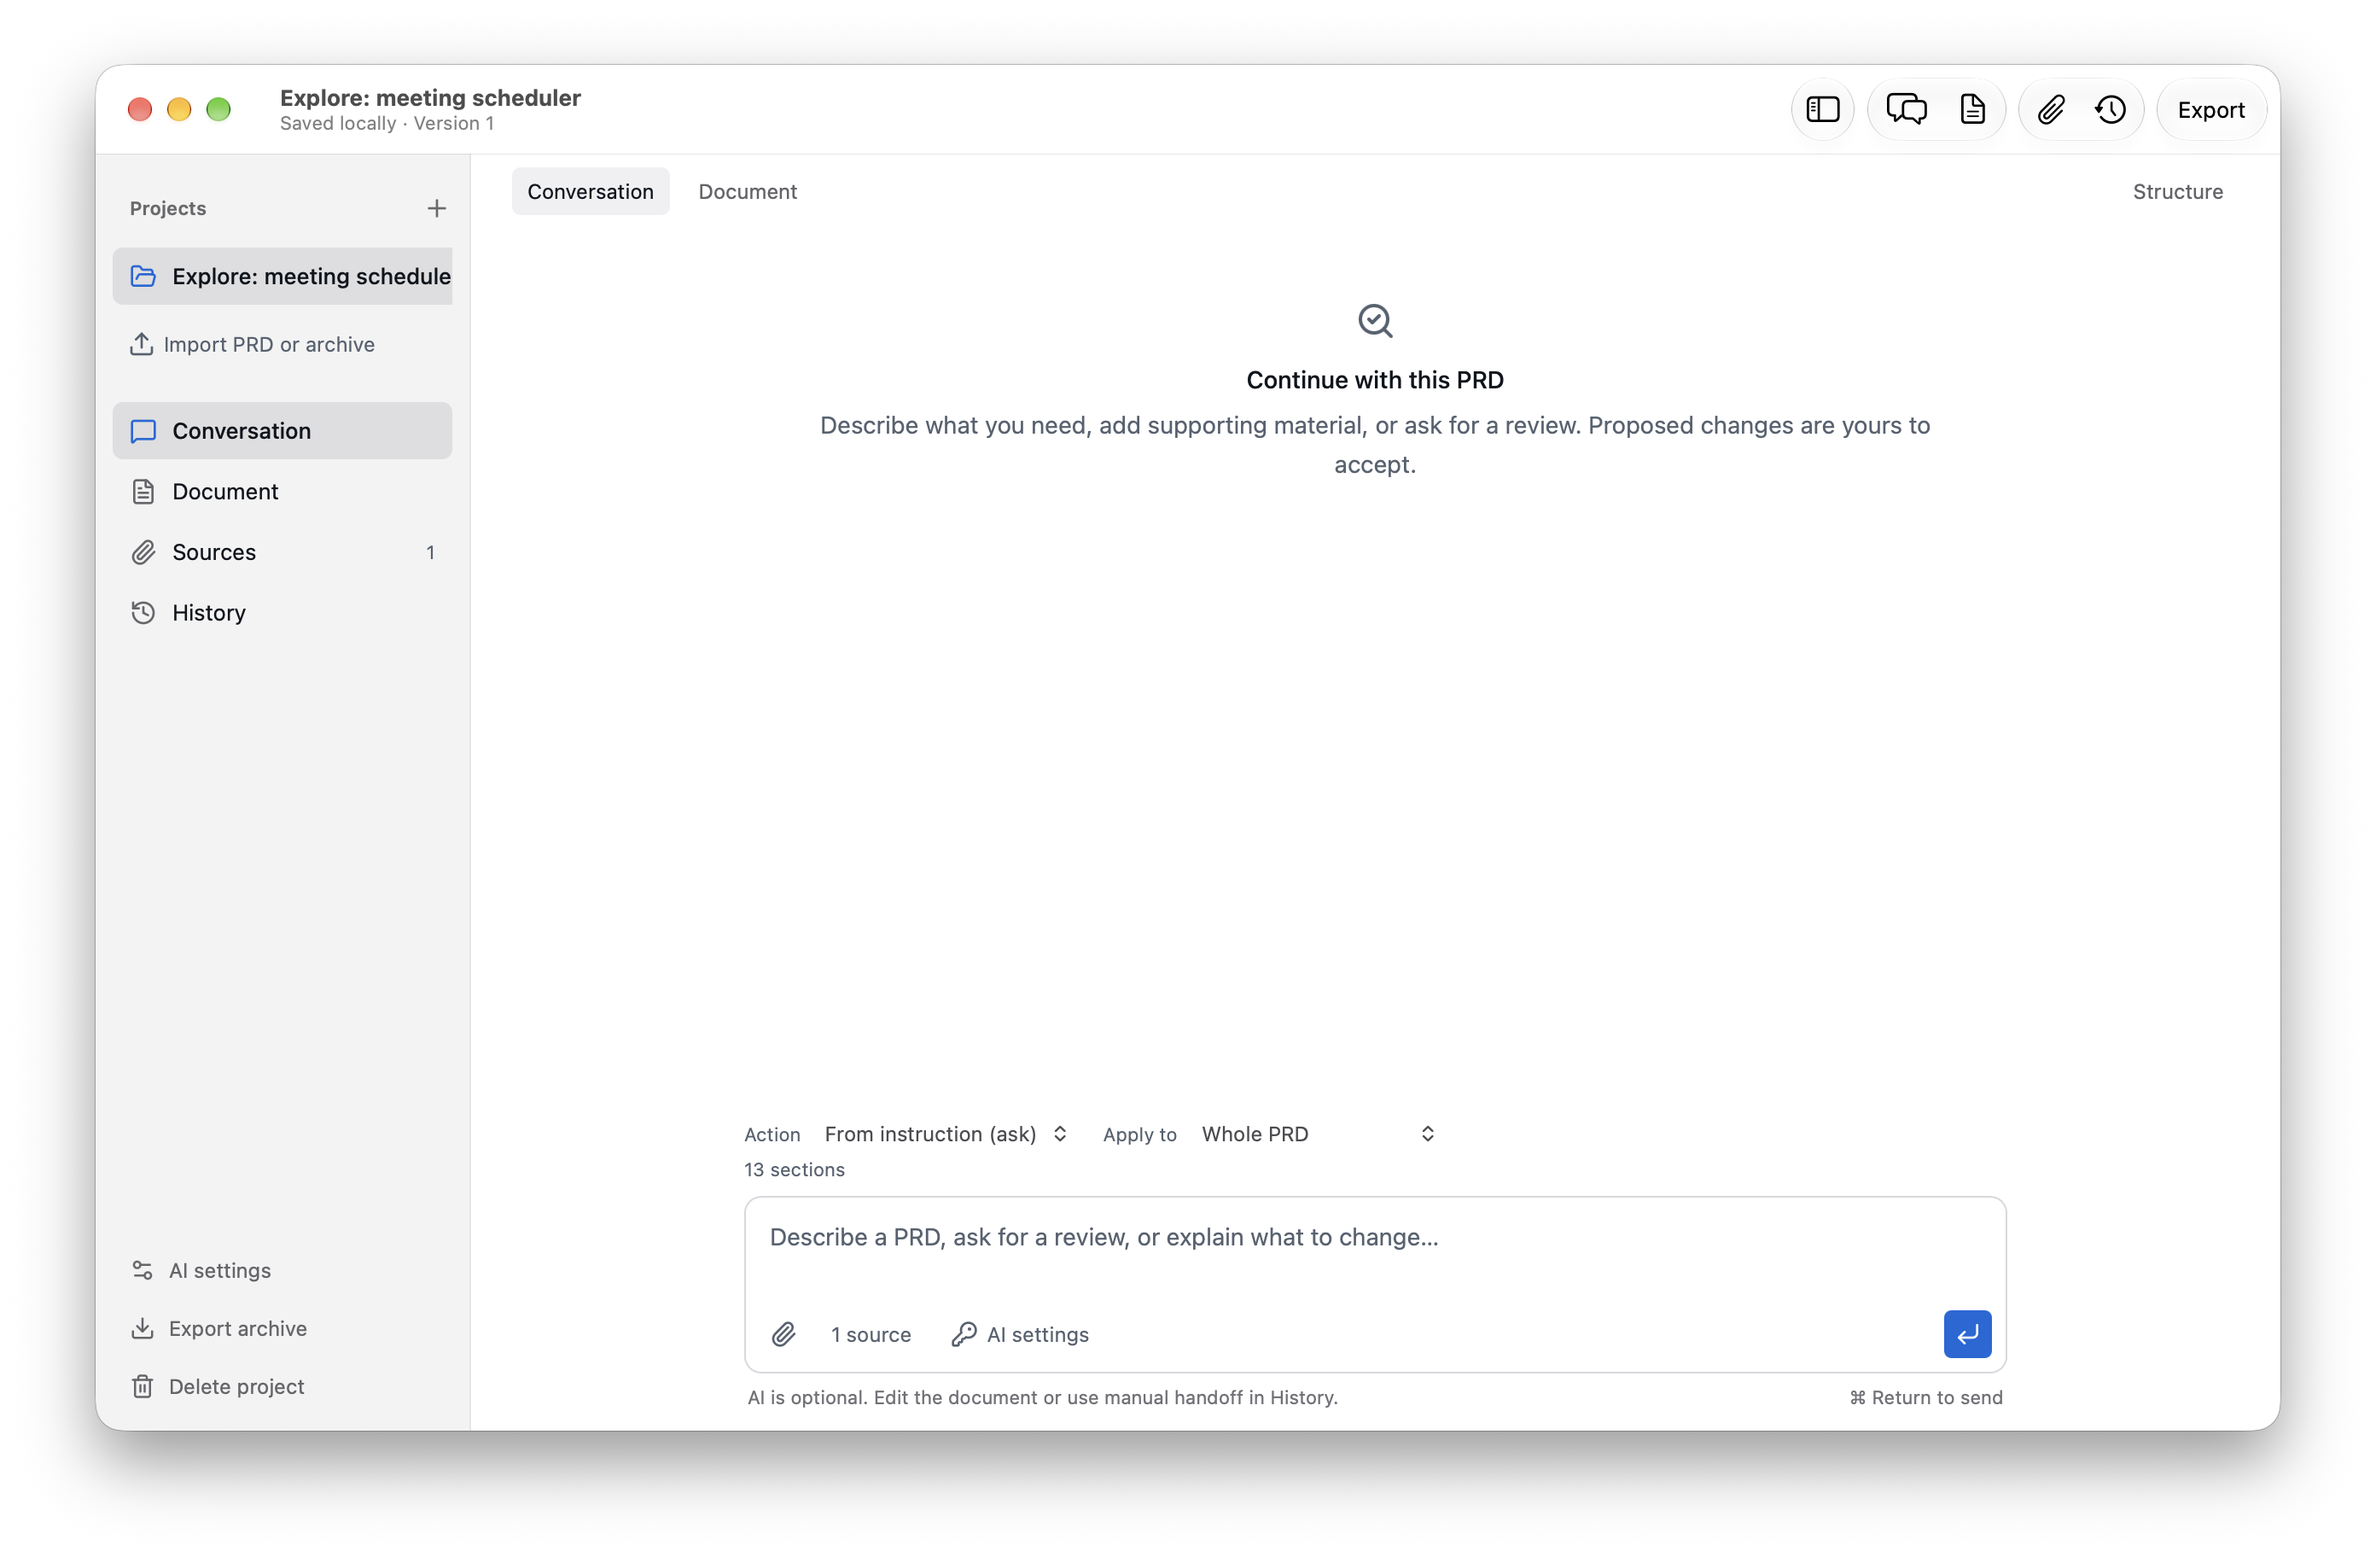
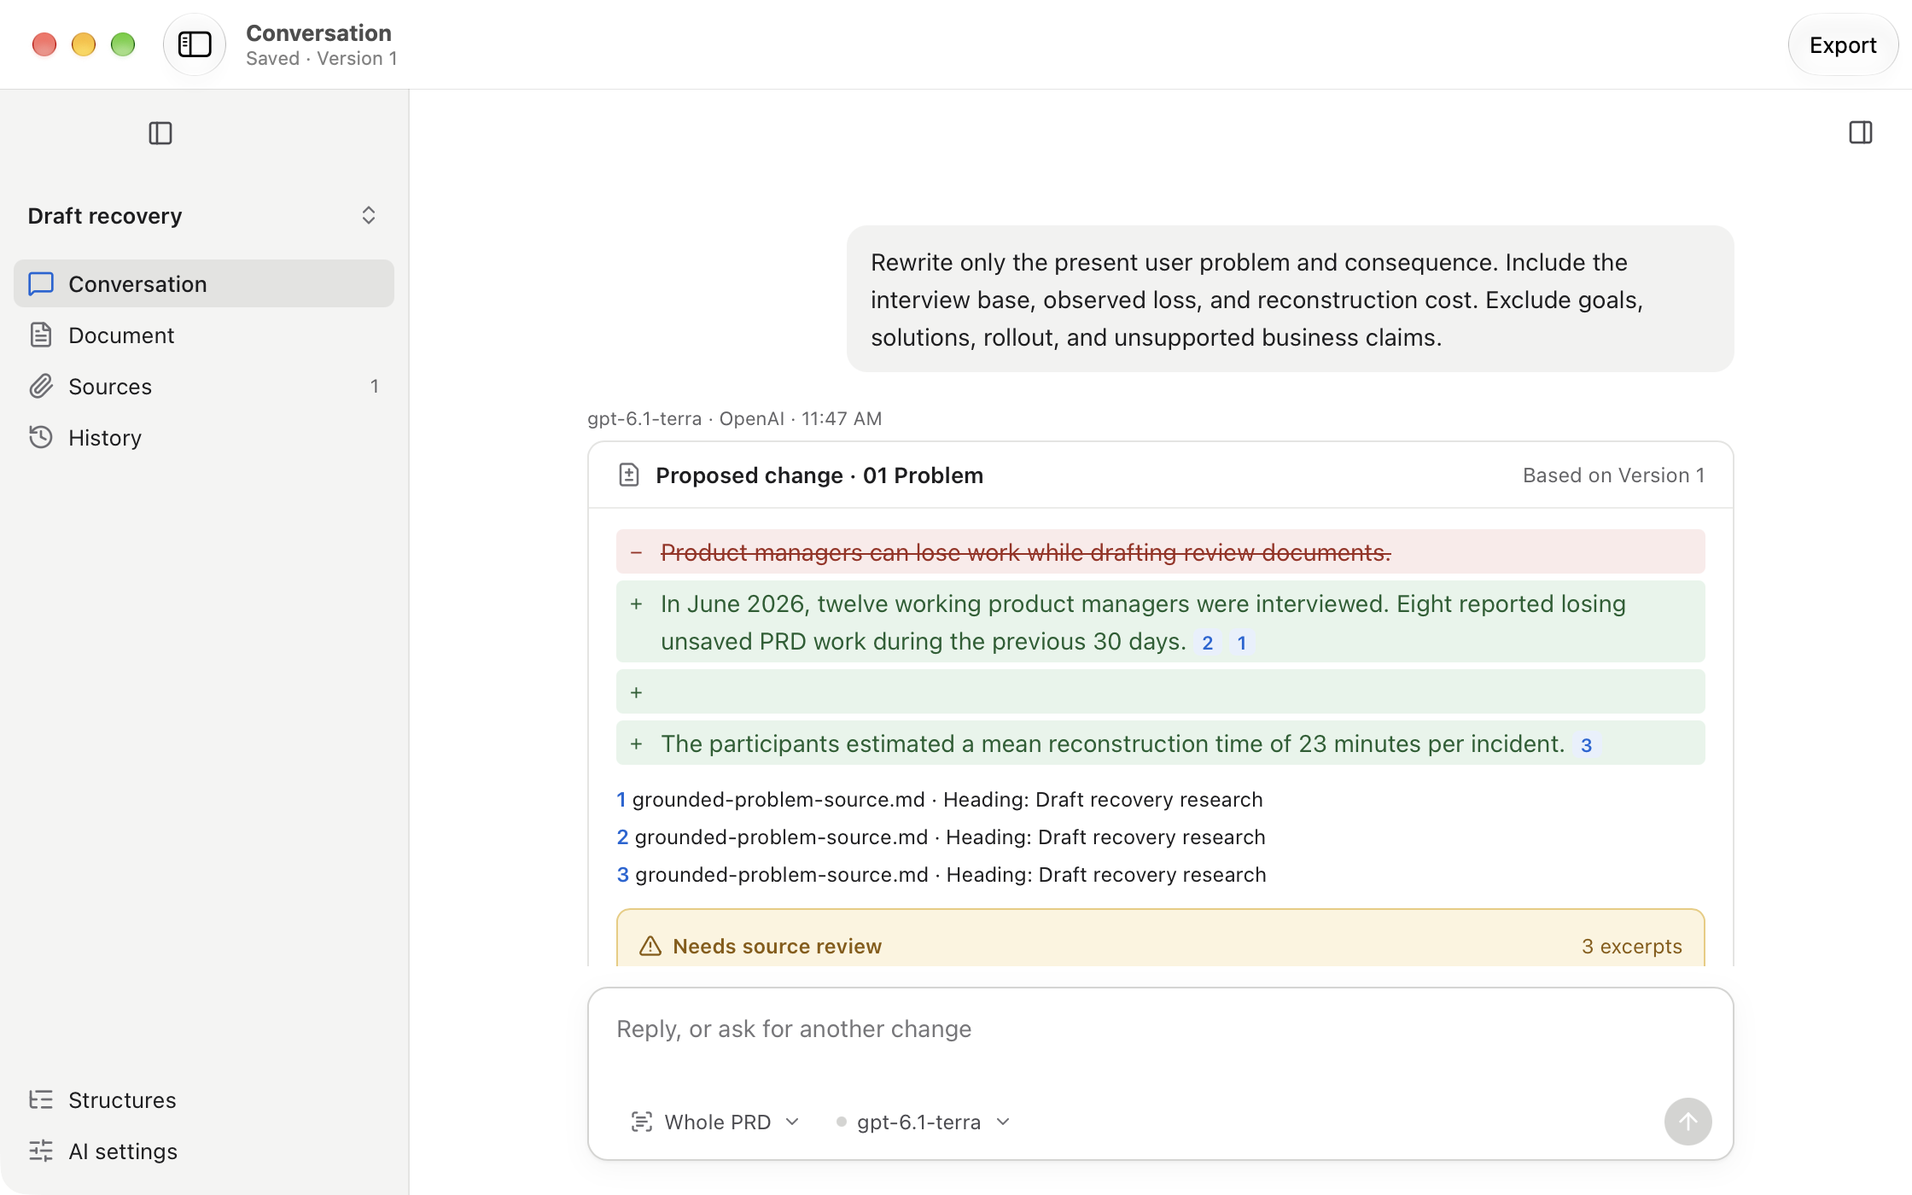
fix(ci): let the macOS release verifier check a real signed package
Running the verifier against the notarised rc.4 ZIP for the first time
exposed two defects that made every real package fail:

- macOS zipinfo prints UTF-8 entry names lossily, so a dependency test
  fixture path containing U+2603 never matched the bundle inventory. Entry
  listing now uses bsdtar (libarchive), which decodes UTF-8.
- codesign -R treated the inline designated requirement as a file path.
  The requirement is now passed as -R=<requirement>.

Also ignores reports/*.txt so the required verification transcript does not
make the release checkout dirty, and adds the website hero and README
screenshot captured from the signed rc.4 app.

Verification:
- Patched validateMacosReleaseEvidence on the notarised 246f169 ZIP
  (job 5dea0cda-b865-4c11-b643-082e881745f0) -> OK: 29,858 entries,
  14 native signatures with Developer ID, hardened runtime, timestamps and
  CDHashes in the accepted ticket, deep verify, staple, Gatekeeper.
- Unpatched verifier on the same ZIP -> "macOS ZIP entry inventory differs
  from the signed bundle."
- npx vitest run -> 313 passed, 1 skipped (314); typecheck, lint,
  format:check -> exit 0.
- landing/index.html at 1440, 390, 320 px -> 0 overflow, hero loaded,
  0 console errors; em dash count 0.

Claude-Session: https://claude.ai/code/session_014CBPUVUVgWxquWC6QNp1cw

diff --git a/landing/index.html b/landing/index.html
@@ -259,42 +259,23 @@
             </p>
           </div>
           <figure style="margin-top: clamp(40px, 6vw, 72px)">
-            <div
-              role="img"
-              aria-label="PRD Genie main window showing a PRD with its section outline and review panel"
+            <img
+              src="hero.webp"
+              srcset="hero.webp 1x, hero@2x.webp 2x"
+              width="1120"
+              height="700"
+              alt="PRD Genie on macOS: a proposed change to the Problem section, written by an AI model from an interview source, with numbered source citations and a source review step before it can be accepted"
               style="
-                aspect-ratio: 16/10;
+                display: block;
                 width: 100%;
+                height: auto;
                 border-radius: 12px;
                 border: 1px solid oklch(0.85 0.012 255);
                 box-shadow:
                   0 1px 2px oklch(0.19 0.018 255 / 0.06),
                   0 24px 60px -24px oklch(0.19 0.018 255 / 0.22);
-                background: repeating-linear-gradient(
-                  135deg,
-                  oklch(0.965 0.005 255) 0 10px,
-                  oklch(0.945 0.007 255) 10px 20px
-                );
-                display: flex;
-                align-items: center;
-                justify-content: center;
-                padding: 24px;
-                text-align: center;
               "
-            >
-              <span
-                style="
-                  font-family: ui-monospace, 'SF Mono', Menlo, monospace;
-                  font-size: 13px;
-                  line-height: 1.6;
-                  color: oklch(0.42 0.025 255);
-                  background: oklch(0.985 0.003 255);
-                  padding: 8px 12px;
-                  border-radius: 6px;
-                "
-                >IMG-HERO · real capture of approved app main window · 2240×1400 (16:10, @2x)</span
-              >
-            </div>
+            />
           </figure>
         </section>
 

diff --git a/tests/unit/provenance-policy.test.ts b/tests/unit/provenance-policy.test.ts
@@ -314,15 +314,10 @@ describe('release provenance policy', () => {
     vi.mocked(execFileSync).mockImplementation(((command: string, args: string[]) => {
       if (command === 'git') return '112';
       if (command === '/usr/bin/plutil') return plist[args[1]!]!;
-      if (command === '/usr/bin/zipinfo')
-        return args[0] === '-1'
+      if (command === '/usr/bin/bsdtar')
+        return args[0] === '-tf'
           ? names.join('\n')
-          : [
-              'Archive: fixture',
-              'Zip file size: fixture',
-              ...names.map((name) => `-rw-r--r-- fixture ${name}`),
-              'Totals',
-            ].join('\n');
+          : names.map((name) => `-rw-r--r--  0 501 20 1 Nov  3 12:00 ${name}`).join('\n');
       if (command === '/usr/bin/ditto') {
         fs.cpSync(bundle, path.join(args[3]!, 'PRD Genie.app'), { recursive: true });
         return '';
@@ -411,13 +406,11 @@ describe('release provenance policy', () => {
   it('rejects ZIP aliases before extraction', () => {
     const name = 'PRD Genie.app/Contents/a';
     vi.mocked(execFileSync).mockImplementation(((command: string, args: string[]) => {
-      if (command !== '/usr/bin/zipinfo') throw new Error('Extraction must not occur');
+      if (command !== '/usr/bin/bsdtar') throw new Error('Extraction must not occur');
       const names = [name, 'PRD Genie.app/Contents//a'];
-      return args[0] === '-1'
+      return args[0] === '-tf'
         ? names.join('\n')
-        : ['Archive', 'Size', ...names.map((item) => `-rw-r--r-- fixture ${item}`), 'Totals'].join(
-            '\n',
-          );
+        : names.map((item) => `-rw-r--r--  0 501 20 1 Nov  3 12:00 ${item}`).join('\n');
     }) as typeof execFileSync);
     expect(() =>
       inspectMacosArchive(

diff --git a/landing/README.md b/landing/README.md
@@ -4,7 +4,7 @@
 
 The page implements the Claude Design website specification. Before publishing:
 
-- Replace the IMG-HERO placeholder with a real capture of the released app's main window (2240 x 1400, light mode, fictional example project).
+- `hero.webp` and `hero@2x.webp` are a capture of the signed v0.1.0-rc.4 app (2240 x 1400, light mode) showing a real model proposal on synthetic research notes. Replace them when the main window changes.
 - Confirm the v0.1.0-rc.4 release page linked from the download buttons exists.
 - Confirm ChatGPT Sites adds no analytics, cookies or scripts. If it does, change the footer line to "This page has no analytics, forms or tracking of its own."
 - Check the page contains no em dashes.
